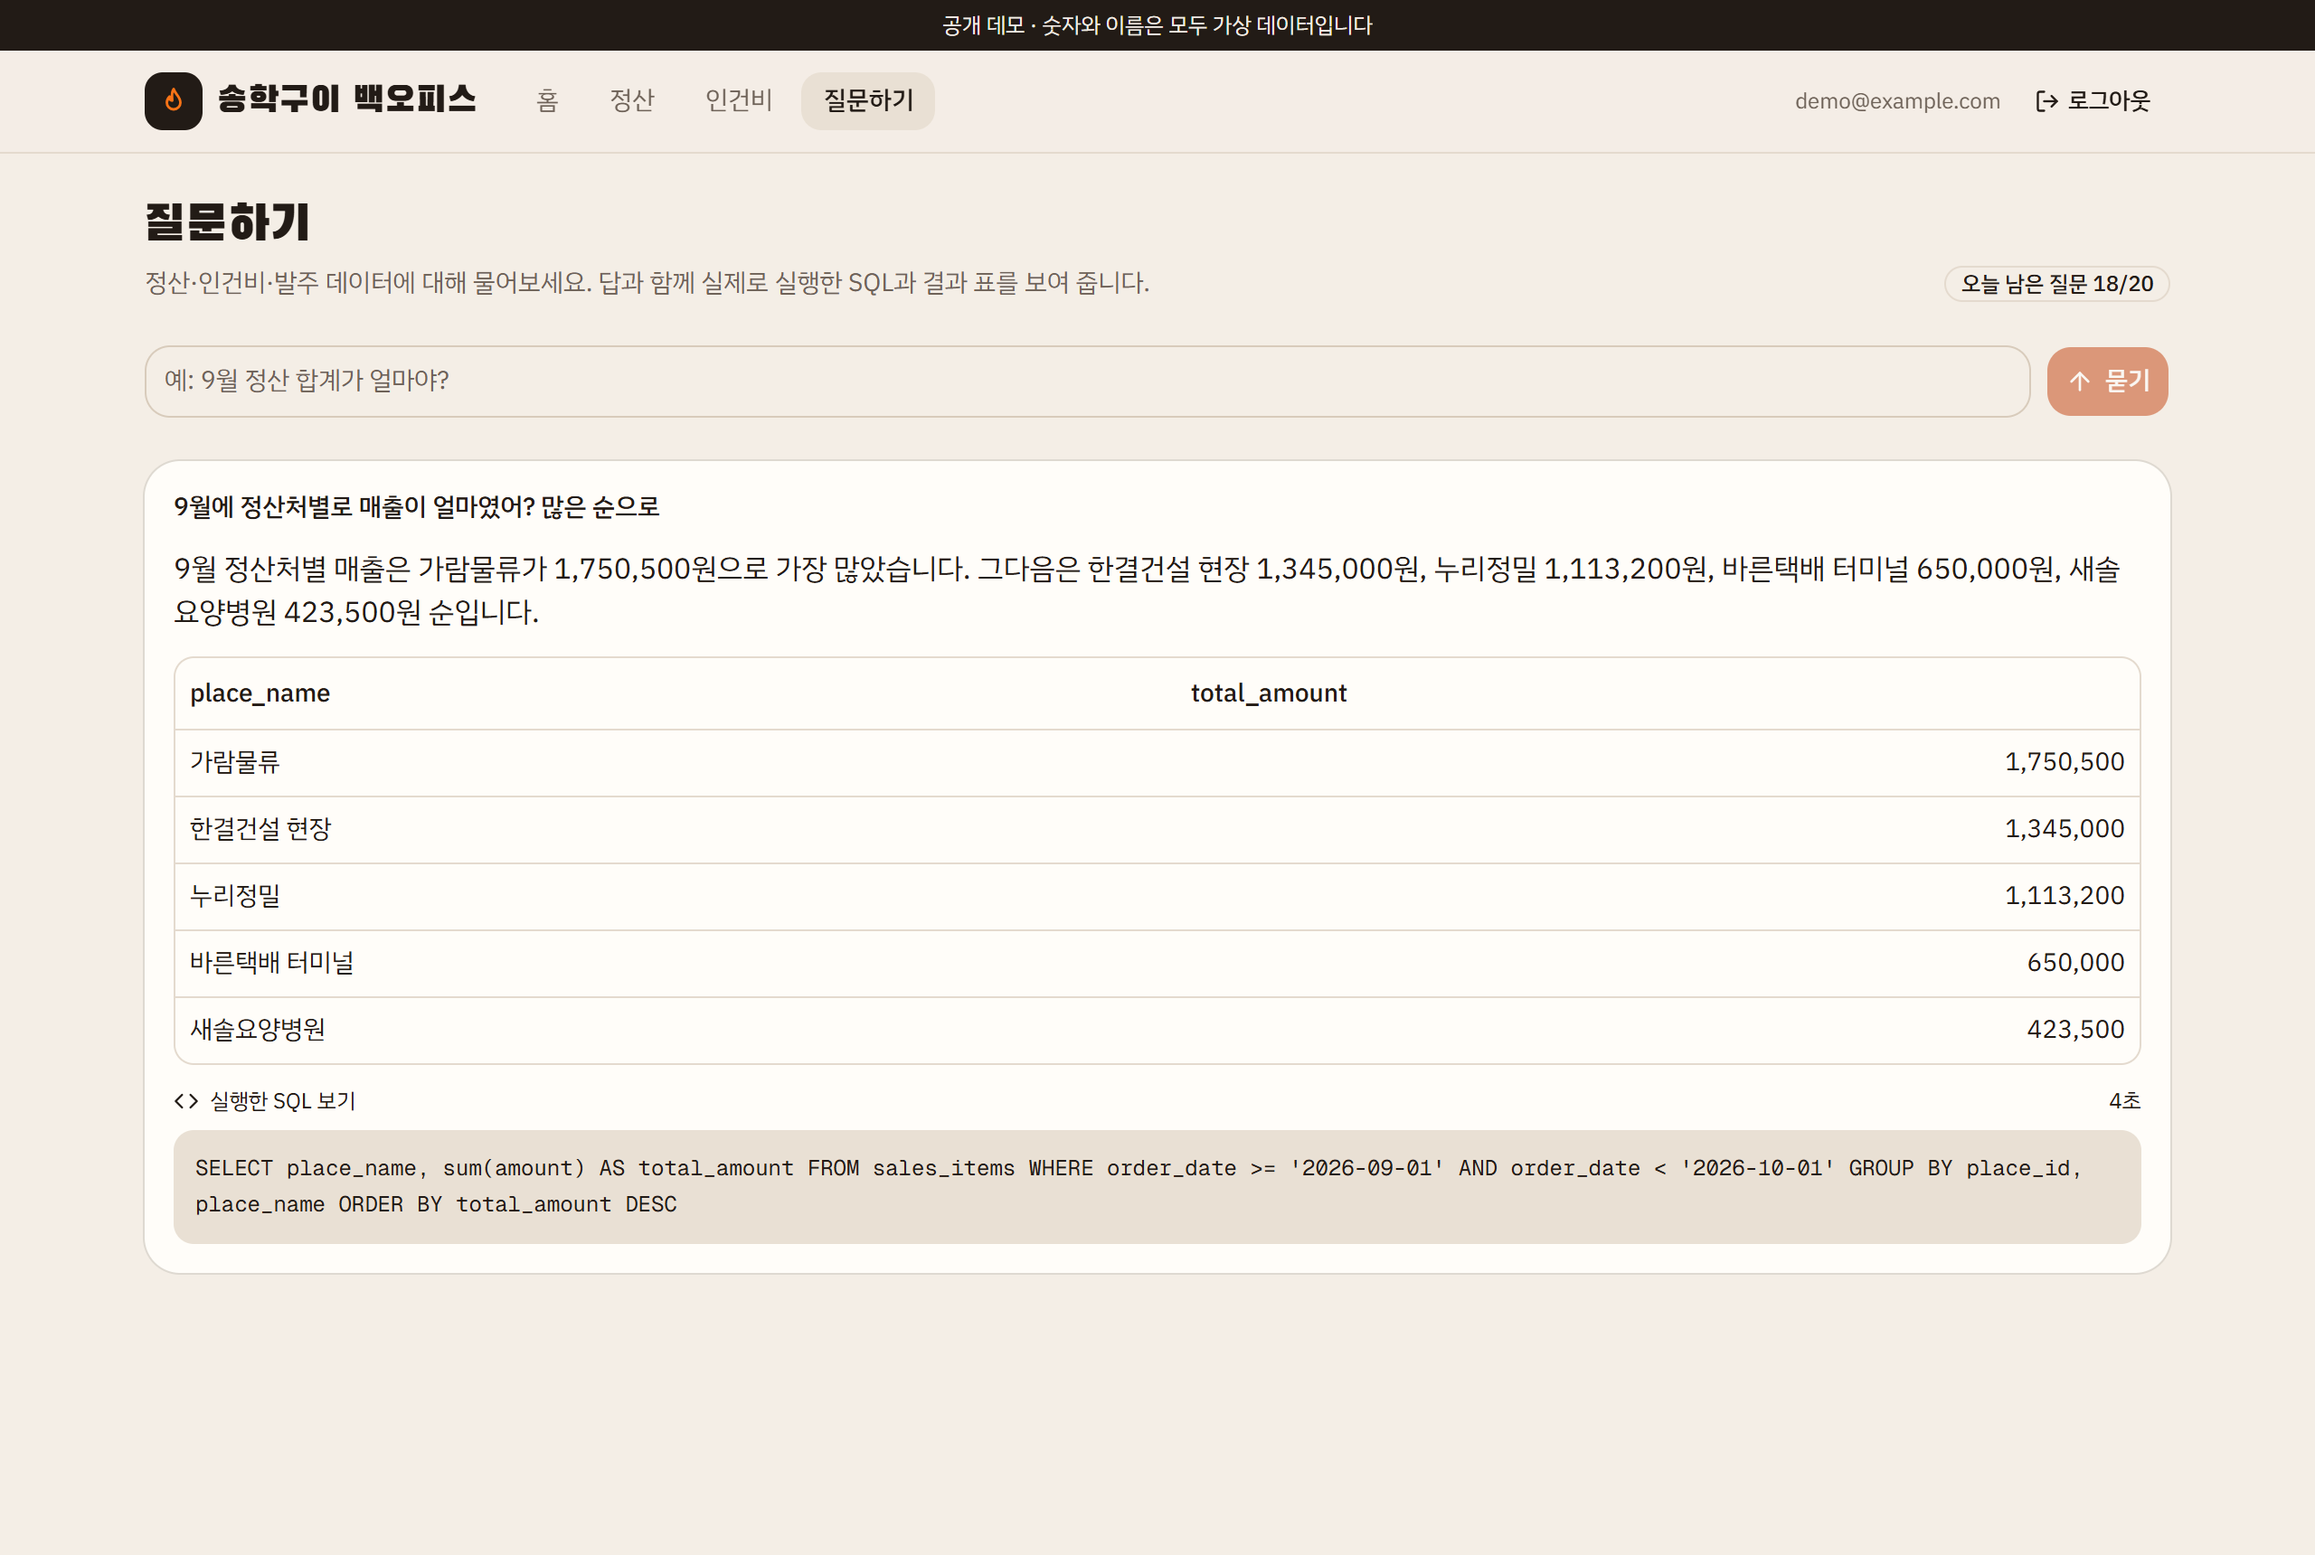
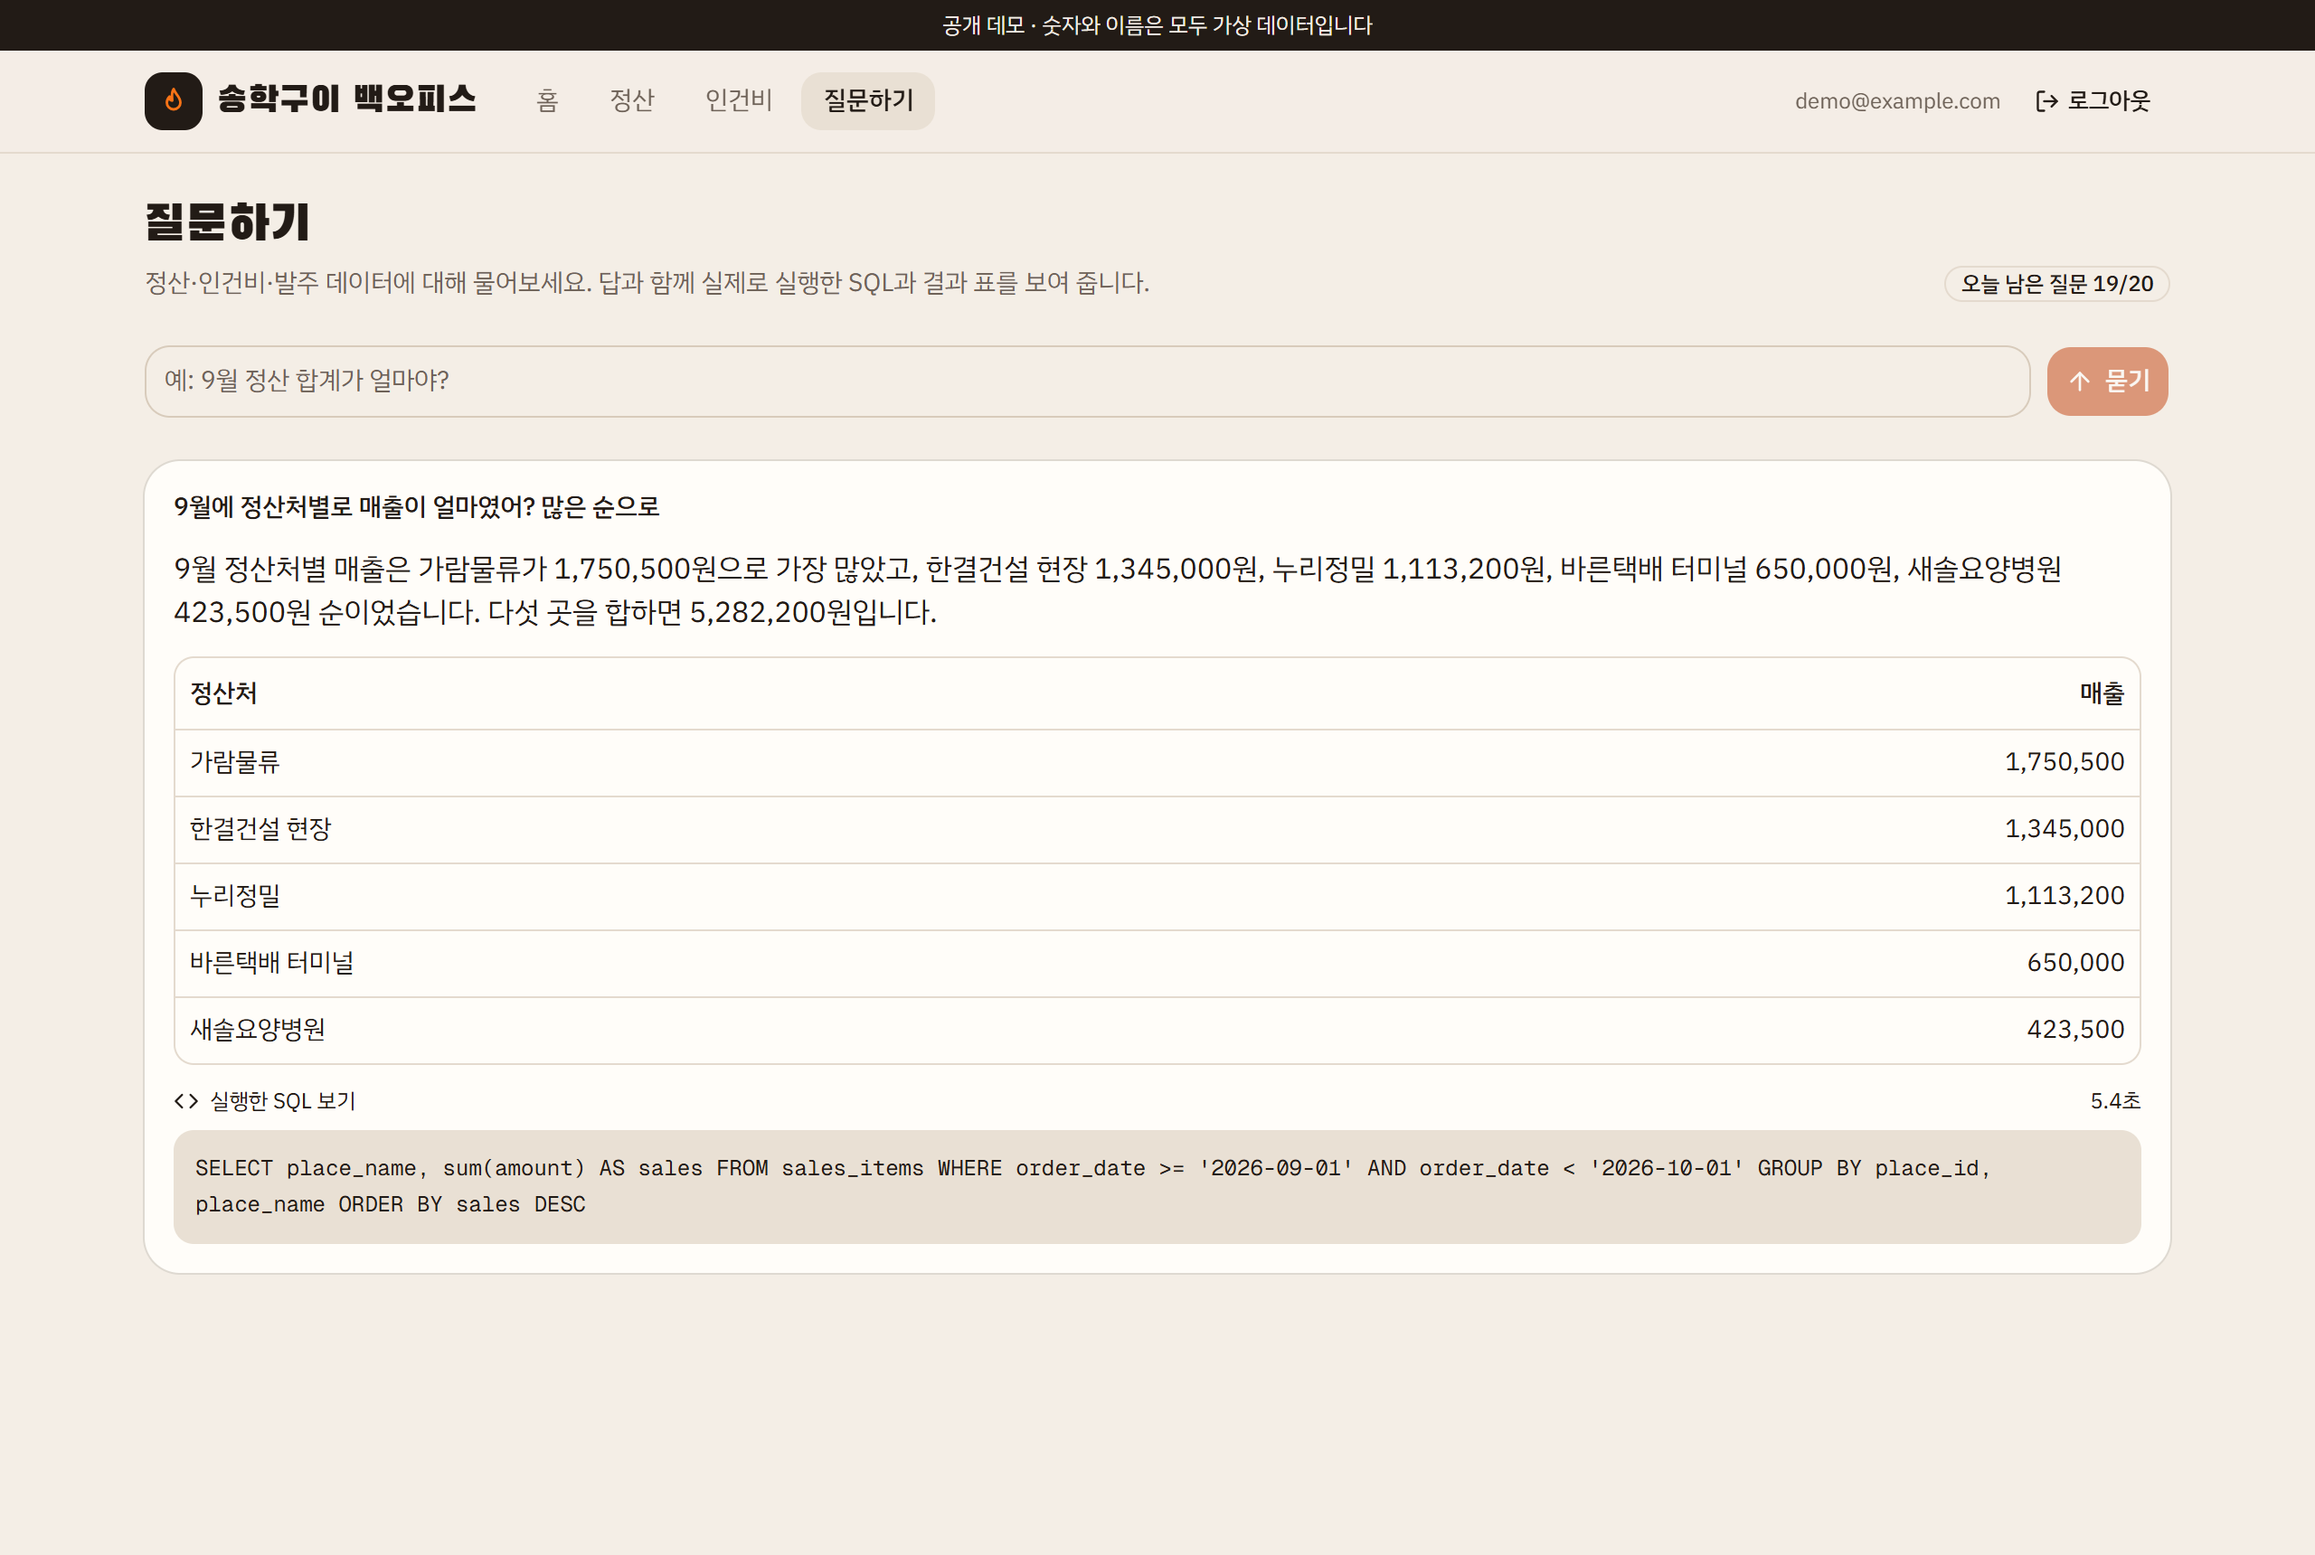
docs: 질문하기 스크린샷 교체, 업데이트 후 nginx reload 단계 추가
컨테이너를 다시 만들면 내부 IP가 바뀌는데 nginx는 시작할 때 찾은 IP를 계속 써서
데모 주소에 운영 화면이 나왔다. 업데이트 순서에 nginx -s reload를 넣었다.

diff --git a/docs/deploy.md b/docs/deploy.md
@@ -117,10 +117,13 @@ sh deploy/daily.sh            # 한 번 직접 실행해 확인
 ```bash
 git pull
 docker compose -f docker-compose.prod.yml up -d --build   # 바뀐 이미지만 다시 빌드한다
+docker compose -f docker-compose.prod.yml exec nginx nginx -s reload   # 꼭 실행 (아래 설명)
 docker image prune -f                                     # 지난 이미지 정리
 docker builder prune -af                                  # 빌드 캐시 정리 (디스크 20GB를 넘지 않게)
 df -h /                                                   # 디스크 사용량 확인 (80%가 넘으면 원인부터 확인)
 ```
+
+nginx는 켜질 때 한 번만 `web`, `web-demo` 같은 컨테이너 이름을 내부 IP로 바꿔 기억한다. 업데이트로 컨테이너가 새로 만들어지면 IP가 바뀌는데 nginx는 옛 IP로 계속 보낸다. 2026-11-10에는 web과 web-demo의 IP가 서로 뒤바뀌어 데모 주소에 운영 로그인 화면이 나왔다. 화면만 바뀌었고 각 화면은 자기 API로만 연결되므로 데이터가 섞이지는 않았다. `nginx -s reload`로 이름을 다시 찾게 해서 고쳤다.
 
 빌드 캐시는 다음 빌드를 빠르게 하려고 남기는 중간 파일이라 지워도 서비스와 데이터에는 영향이 없다. 지우면 다음 빌드만 처음처럼 몇 분 더 걸린다. 정리하지 않으면 업데이트할 때마다 몇 GB씩 쌓여 디스크가 차고, 디스크가 차면 DB 쓰기와 동기화가 멈춘다.
 
